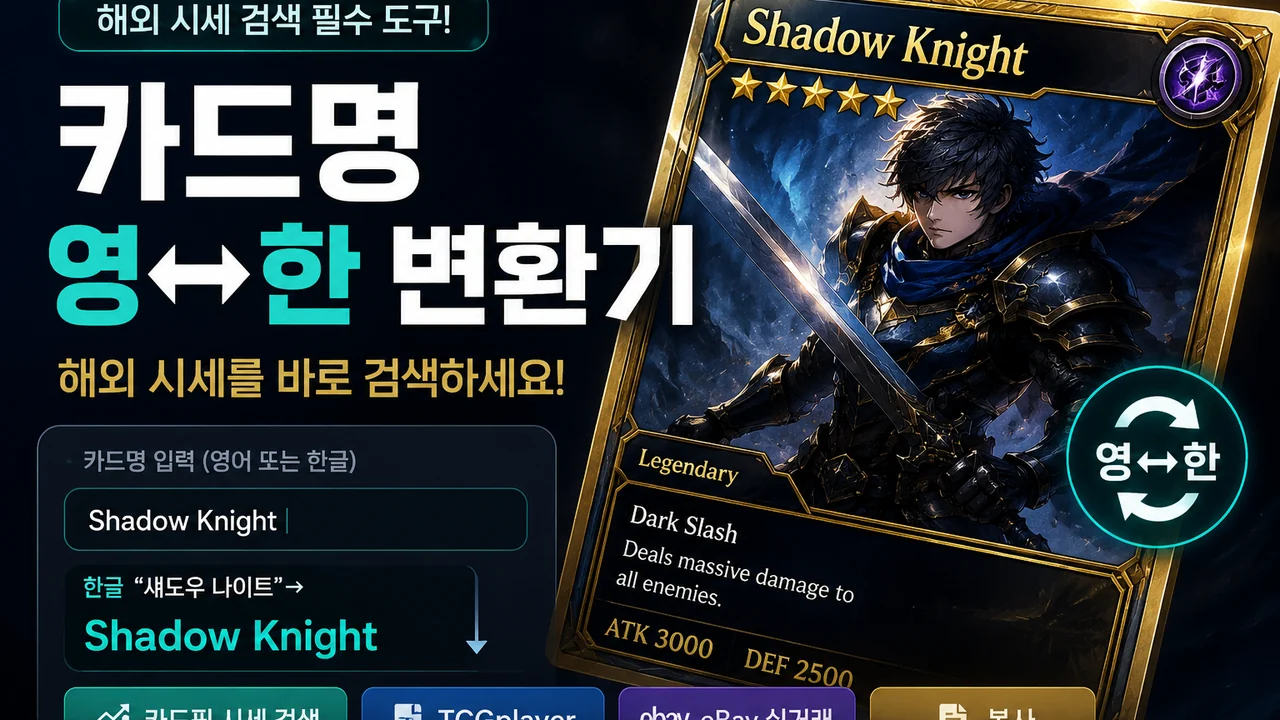
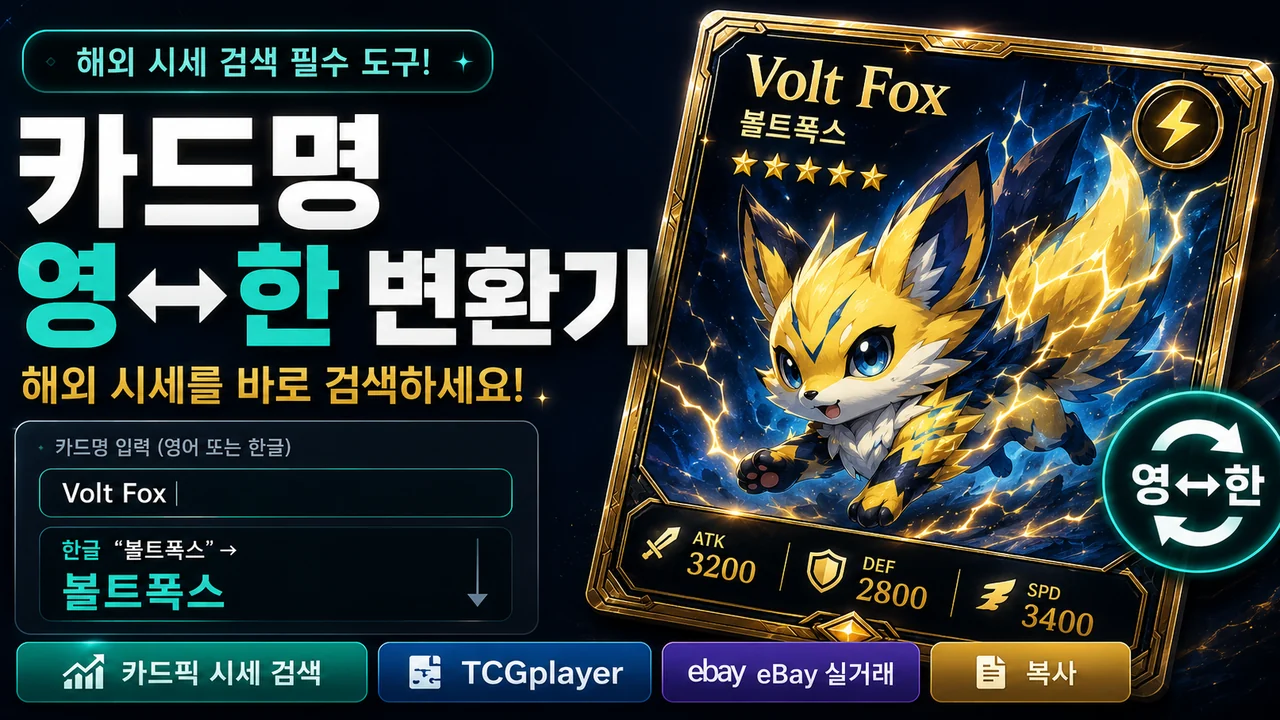
thumbnail: 카드명 변환기 썸네일 16:9 재생성 (f399b889, 잘림 해결) + 캐시 v2

diff --git a/tools.html b/tools.html
@@ -345,8 +345,8 @@
       <!-- 4-1. 카드명 영한 변환기 -->
       <article class="tool-card ready" data-cat="import">
         <a href="/tools/card-name-translator" class="thumb" aria-label="포켓몬 카드 영한 이름 변환기 썸네일">
-          <img src="/images/tools/card-name-translator-800.webp"
-               srcset="/images/tools/card-name-translator-480.webp 480w, /images/tools/card-name-translator-800.webp 800w, /images/tools/card-name-translator-hero.webp 1200w"
+          <img src="/images/tools/card-name-translator-800.webp?v=2"
+               srcset="/images/tools/card-name-translator-480.webp?v=2 480w, /images/tools/card-name-translator-800.webp?v=2 800w, /images/tools/card-name-translator-hero.webp?v=2 1200w"
                sizes="(max-width:720px) 100vw, 540px"
                alt="포켓몬 카드 영한 이름 변환기" loading="lazy" width="800" height="450">
         </a>

diff --git a/tools/card-name-translator.html b/tools/card-name-translator.html
@@ -20,11 +20,11 @@
 <meta property="og:url" content="https://cardpick.kr/tools/card-name-translator">
 <meta property="og:title" content="포켓몬 카드 영어 이름 한글 변환기 - Charizard 리자몽 카드명 검색">
 <meta property="og:description" content="포켓몬 카드 영↔한 이름 변환. 해외 시세 검색 시 카드명을 바로 찾으세요. ex·V·VMAX·GX 접미사 자동 처리.">
-<meta property="og:image" content="https://cardpick.kr/images/tools/card-name-translator-hero.webp">
+<meta property="og:image" content="https://cardpick.kr/images/tools/card-name-translator-hero.webp?v=2">
 <meta name="twitter:card" content="summary_large_image">
 <meta name="twitter:title" content="포켓몬 카드 영어 이름 한글 변환기">
 <meta name="twitter:description" content="포켓몬 카드 영↔한 이름 변환. 해외 시세 검색용.">
-<meta name="twitter:image" content="https://cardpick.kr/images/tools/card-name-translator-hero.webp">
+<meta name="twitter:image" content="https://cardpick.kr/images/tools/card-name-translator-hero.webp?v=2">
 
 <link rel="preconnect" href="https://fonts.googleapis.com">
 <link rel="preconnect" href="https://fonts.gstatic.com" crossorigin>